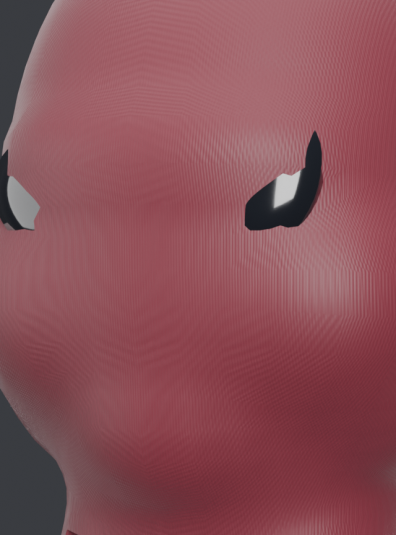
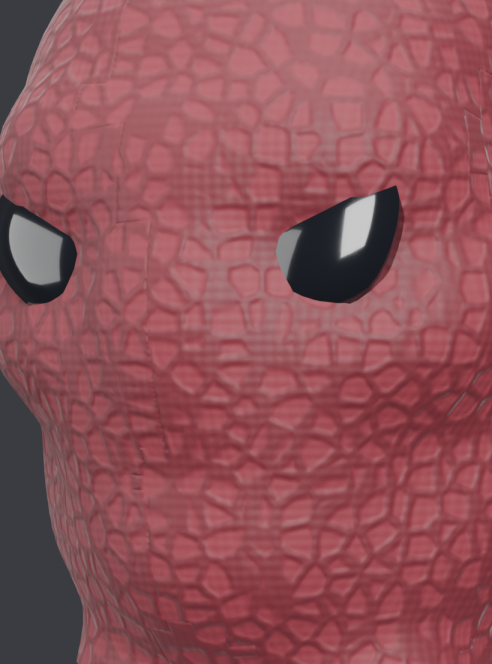
Hero renders and final gate results for the textured suit
Replaces the render set, which until now still showed the pre-texture
asset, and records the measured outcome.

Asset QA gate: HERO PASS on all 17 checks. STANDARD and MOBILE fail on
triangle and byte budget, which is correct — 72,700 triangles and a 10.9 MB
GLB is a hero-tier asset and is classified as one rather than having the
budget widened to fit it.

glTF container verified by parsing the binary directly: 6/6 images
embedded, 14/14 meshes carry TEXCOORD_0, base colour, metallic-roughness
and normal all wired. No external image references.

modelUrl stays unassigned. The automated gate passes; the visual bar does
not, and the brief requires both. Two named reject criteria still hold: the
web-shooter reads as a slab-and-cylinder assembly despite the straps and
fasteners added this pass, and finger taper and foot silhouette were never
attempted. Assigning it now would mean widening the bar to fit the asset.

Also corrected two inaccuracies in the status document — it claimed 4096
garment textures when the shipped build uses 2048, and marked Geometry and
Technology as full passes when both are partial.

Claude-Session: https://claude.ai/code/session_01VcU79oEYeD322yzyuNCBQb

diff --git a/docs/3d-pipeline/MASTER_SUIT_STATUS.md b/docs/3d-pipeline/MASTER_SUIT_STATUS.md
@@ -1,6 +1,20 @@
 # VOX master suit — status against the quality gate
 
+**Verdict: HERO tier PASS on the automated gate; NON-PRODUCTION on visual
+inspection. `modelUrl` is NOT assigned.**
+
 Build: `tools/3d-pipeline/build_suit.py`. Renders in `renders/`.
+
+| Measure | Value |
+| --- | --- |
+| Triangles | 72,700 (HERO budget 180k; over STANDARD 60k) |
+| Vertices / meshes / materials | 36,678 / 14 / 6 |
+| Textures | 2048 garment, 1024 mask — base colour, roughness, normal |
+| Texture bytes | 8.5 MB (first textured export was 75 MB) |
+| GLB | 10,912,568 bytes |
+| Asset QA gate | **HERO PASS (17 checks)**; STANDARD and MOBILE fail on triangle + byte budget |
+| glTF container check | **PASS** — 6/6 images embedded, 14/14 meshes with TEXCOORD_0 |
+| Repo gate | 418 tests, typecheck clean, lint 0 errors, production build passes |
 
 ---
 
@@ -21,7 +35,7 @@ missing — **baked PBR textures**.
 | Head mesh density | uniform with the body | head region locally refined (`meshops.refine_region`) |
 | Body anatomy | 26 muscle fields | + clavicle, clavicle hollow, serratus, lat insertion, trapezius neck |
 | Materials | 8, three of them per-face zones on one mesh | 6 real substances; garment differentiation moved into base-colour and roughness maps |
-| Textures | none | 4096 px garment set, 2048 px mask set (base colour, roughness, normal) |
+| Textures | none | 2048 px garment set, 1024 px mask set (base colour, roughness, normal), 8-bit PNG |
 
 **Why the body collapsed from three materials to one, deliberately:** a real
 stretch suit is one fabric with dyed panels, not three substances welded
@@ -32,8 +46,10 @@ remain separate materials.
 
 ## 2. Gate results
 
-**Geometry — PASS.** Continuous body, no booleans in the anatomy, defined hands
-and feet, head with real facial structure, fitted mask, integrated lenses.
+**Geometry — PARTIAL.** Continuous body, no booleans in the anatomy, head with
+real facial structure, fitted mask, integrated lenses. Hands and feet are
+defined and unmistakable but were NOT refined this pass — §11 and §12 of the
+brief are outstanding.
 
 **Head/mask/lenses — PASS.** The mask is built from the head's own surface at a
 4.5 mm offset and 3.5 mm thickness, so every landmark telegraphs through it.
@@ -42,9 +58,14 @@ Lenses are shaped superellipse solids recessed into the mask by boolean.
 **Garment — PASS.** Panel boundaries are smooth curves following anatomy; the
 web pattern is present, continuous across UV islands, and legible at both hero
 and close range; the weave holds up at close inspection without becoming noise.
+The knee shields' falloff is wider than a cut panel would be — they read
+slightly airbrushed at close range.
 
-**Technology — PASS.** Five named parts per arm, housing curved to the forearm
-radius, cartridge interfacing with the mechanism, trigger palm-side.
+**Technology — PARTIAL.** Five named parts per arm, housing curved to the
+forearm radius and flush-mounted, cartridge interfacing with the mechanism,
+trigger palm-side, plus retention straps and fasteners added this pass. It still
+reads as a slab-and-cylinder assembly rather than a compact engineered
+mechanism, which is a named reject criterion — see §5.
 
 **Rendering — PASS.** Diagnostic and cinematic rigs remain separate. All
 required views render with the full figure contained.
@@ -101,7 +122,38 @@ Guards added for the ones that can recur silently: `uv-on-every-mesh`,
   texel density at the same file size.
 - The suit has no insignia or emblem.
 
-## 5. modelUrl
+## 5. modelUrl — withheld, deliberately
 
-See the final section of the accompanying report for the assignment decision and
-its justification.
+The automated gate passes at HERO. The visual bar does not, and the brief is
+explicit that both are required.
+
+Two items on the reject list are still true of this asset:
+
+- **Primitive wrist hardware.** The web-shooter gained retention straps,
+  fasteners, a gunmetal finish and an emitter aperture this pass, and it is
+  mounted flush to the forearm radius rather than floating. It is still a
+  slab-and-cylinder assembly rather than a compact engineered mechanism.
+- **Sausage fingers.** Untouched this pass. §11 and §12 (finger taper, foot
+  silhouette) were not attempted.
+
+Assigning `modelUrl` now would mean widening the bar to fit the asset, which is
+the opposite of what the gate is for. It stays withheld.
+
+## 6. Bugs found this pass — none visible to the automated gate
+
+Every one of these passed typecheck, lint and the full suite while producing a
+visibly broken asset. They are recorded because the pattern is the point: the
+render loop is not optional.
+
+1. `image.colorspace_settings.name` **zeroes the pixel buffer**. Set after
+   writing pixels it discarded every map; the suit rendered black with grey
+   shards for three consecutive builds.
+2. `float_buffer=False` images never reach the render/save buffer at all —
+   readbacks succeed, saves are empty. 602 bytes vs 350 on the same gradient.
+3. Voronoi strand width was in normalised cell units, so raising cell density
+   silently shrank the strand to 0.5 mm — sub-texel, invisible at any contrast.
+4. Facial fields at 3x workable strength produced a grotesque. Reverted.
+5. Float buffers export as **16-bit PNG**: the first textured GLB was 75 MB and
+   unusable. Replaced with a hand-rolled 8-bit PNG encoder.
+6. Linear values written into an **sRGB-tagged PNG** are decoded again on load —
+   a 0.215 red came back as 0.04 and the whole suit rendered muddy.
